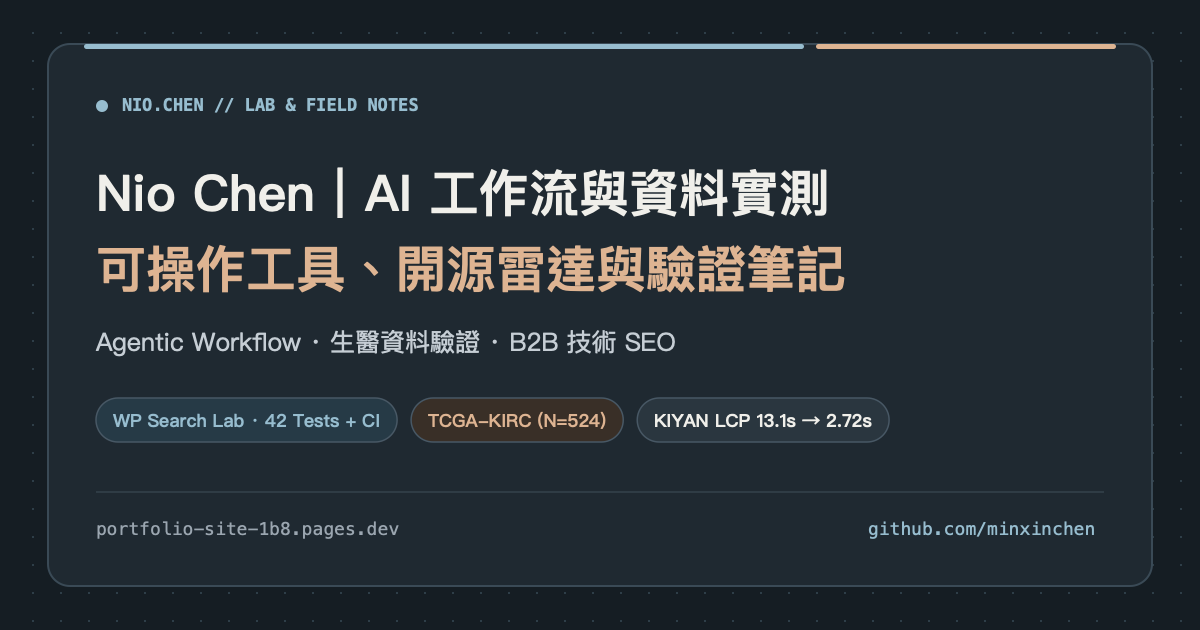
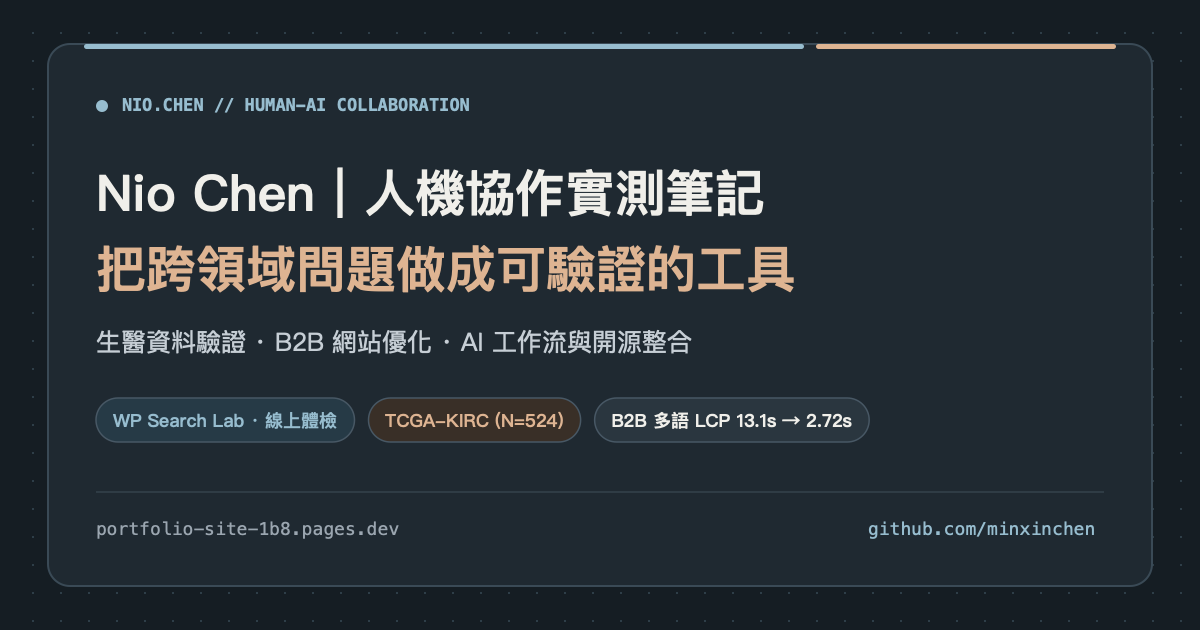
Unify homepage around human-AI collaboration, fix post count, remove repetition and jargon

diff --git a/public/index.html b/public/index.html
@@ -5,15 +5,15 @@
   <meta name="viewport" content="width=device-width,initial-scale=1">
   <meta name="color-scheme" content="light dark">
   <script>try{const s=localStorage.getItem("color-scheme");if(s==="light"||s==="dark")document.querySelector('meta[name="color-scheme"]').content=s;}catch{}</script>
-  <meta name="description" content="Nio Chen｜AI 工作流、生醫資料驗證與 B2B 技術 SEO 的互動工具與實戰筆記。">
-  <title>Nio Chen｜AI 工作流、生醫資料與 SEO 實測筆記</title>
+  <meta name="description" content="Nio Chen｜以人機協作，將生醫資料、B2B 網站優化與 AI 工作流做成可操作的工具與實測筆記。">
+  <title>Nio Chen｜人機協作：可驗證工具與跨領域實測筆記</title>
   <link rel="canonical" href="https://portfolio-site-1b8.pages.dev/">
-  <meta property="og:title" content="Nio Chen｜AI 工作流、生醫資料與 SEO 實測筆記">
-  <meta property="og:description" content="可直接操作的 WP Search Lab、TCGA-KIRC 524 人存活實驗室，以及開源雷達、雙管線 Workflow 與驗證踩坑紀錄。">
+  <meta property="og:title" content="Nio Chen｜人機協作：可驗證工具與跨領域實測筆記">
+  <meta property="og:description" content="人定義問題與邊界、AI 與開源加速實作、真實資料驗證結果：包含 WP Search Lab、TCGA-KIRC 存活實驗室與 7 篇實戰筆記。">
   <meta property="og:type" content="website">
   <meta property="og:url" content="https://portfolio-site-1b8.pages.dev/">
   <meta property="og:image" content="https://portfolio-site-1b8.pages.dev/assets/og-card.png">
-  <script type="application/ld+json">{"@context":"https://schema.org","@type":"Person","name":"Nio Chen","alternateName":"Minxin Chen","url":"https://portfolio-site-1b8.pages.dev/","sameAs":["https://github.com/minxinchen"],"knowsAbout":["Bioinformatics","Biomedical Engineering","B2B SEO","AI Workflow","Data Analysis"]}</script>
+  <script type="application/ld+json">{"@context":"https://schema.org","@type":"Person","name":"Nio Chen","alternateName":"Minxin Chen","url":"https://portfolio-site-1b8.pages.dev/","sameAs":["https://github.com/minxinchen"],"knowsAbout":["Human-AI Collaboration","Bioinformatics","Biomedical Engineering","B2B SEO","Data Analysis"]}</script>
   <link rel="stylesheet" href="assets/style.css">
 </head>
 <body>
@@ -41,9 +41,9 @@
     <section class="hero" id="top">
       <div class="container hero-main">
         <div class="hero-copy">
-          <span class="eyebrow">NIO CHEN · LAB &amp; FIELD NOTES</span>
-          <h1>AI 工作流、生醫資料與 SEO 的<em>可操作工具與實測筆記。</em></h1>
-          <p class="hero-sub">生醫資訊背景，跨足醫材臨床支援、B2B 技術行銷與 Agentic Workflow。這裡集中放我做過的小工具、公開資料驗證與開源實驗紀錄，點進就能操作或檢驗。</p>
+          <span class="eyebrow">NIO CHEN · HUMAN–AI COLLABORATION</span>
+          <h1>以人機協作，把跨領域問題做成<em>可驗證的工具與實測筆記。</em></h1>
+          <p class="hero-sub">我是 Nio（陳明昕），生醫資訊背景，歷經醫材臨床支援與 B2B 技術行銷。無論面對生醫資料、網站效能還是 AI 流程，我都採用同一套人機協作方法：人負責定義真實問題與驗收邊界，搭配開源套件與 AI 加速實作，再用公開資料與測試檢驗結果。</p>
           <div class="hero-actions">
             <a class="round-link" href="tools/wp-search-lab/">開啟 WP Search Lab ↗</a>
             <a class="round-link alt" href="tools/survival-evidence-lab/">TCGA-KIRC 實驗室</a>
@@ -51,31 +51,31 @@
           </div>
           <div class="hero-foot">
             <span class="dash"></span>
-            <span>Agentic Workflow · 生醫資料驗證 · B2B 技術 SEO</span>
+            <span>人機協作實踐 · 生醫資料驗證 · B2B 網站優化 · 工作流設計</span>
           </div>
         </div>
 
-        <aside class="spec-panel" aria-label="精選實績快速入口">
+        <aside class="spec-panel" aria-label="人機協作三步驟分工">
           <div class="spec-bar">
             <span class="spec-dots" aria-hidden="true"><i></i><i></i><i></i></span>
-            <span>featured // live-evidence</span>
+            <span>method // human-ai-workflow</span>
           </div>
           <div class="spec-body">
-            <a class="spec-row" href="tools/wp-search-lab/">
-              <div class="spec-row-head"><span>01 / WP SEARCH LAB</span><span class="tag-earth">42 TESTS + CI ↗</span></div>
-              <strong>免登入 WordPress SEO／AIO 體檢台</strong>
-              <p>單頁與 Sitemap 10 頁抽樣、內鏈建議、Lighthouse API 與跨日驗證。</p>
-            </a>
-            <a class="spec-row" href="tools/survival-evidence-lab/">
-              <div class="spec-row-head"><span>02 / TCGA-KIRC (N=524)</span><span class="tag-earth">PYTHON + R ↗</span></div>
-              <strong>腎細胞癌存活敏感度互動實驗室</strong>
-              <p>拖動年齡切點觀察 P-hacking，對照 CP04 v2 交叉驗證陰性結果。</p>
-            </a>
-            <a class="spec-row" href="projects/kiyan.html">
-              <div class="spec-row-head"><span>03 / B2B MULTILINGUAL</span><span class="tag-earth">LCP 13.1s → 2.72s ↗</span></div>
-              <strong>B2B 工業多語系統效能與 SEO 實測</strong>
-              <p>首屏隔離實測（3.16s → 2.72s）、GSC 未索引分流與免 GA4 歸因。</p>
-            </a>
+            <div class="spec-row">
+              <div class="spec-row-head"><span>01 / HUMAN</span><span class="tag-earth">DEFINE &amp; DECIDE</span></div>
+              <strong>定義現場問題與驗收邊界</strong>
+              <p>從跨領域現場痛點出發，先訂出可量測的成功條件、停止條件與不應跨越的推論界線。</p>
+            </div>
+            <div class="spec-row">
+              <div class="spec-row-head"><span>02 / AI + OPEN SOURCE</span><span class="tag-earth">BUILD FAST</span></div>
+              <strong>開源選型與 AI 協作原型</strong>
+              <p>優先整合成熟開源元件並核對授權，透過 AI 協作快速把想法做成免登入、可直接操作的網頁工具。</p>
+            </div>
+            <div class="spec-row">
+              <div class="spec-row-head"><span>03 / VERIFICATION</span><span class="tag-earth">TEST &amp; AUDIT</span></div>
+              <strong>公開資料實測與自動化檢查</strong>
+              <p>用真實資料、自動化測試與交叉驗證抓出模型誤判，誠實保留陰性結論與能力限制。</p>
+            </div>
           </div>
         </aside>
       </div>
@@ -86,7 +86,7 @@
         <div class="section-head">
           <div>
             <span class="smallcaps">01 / LIVE TOOLS &amp; CASE STUDIES</span>
-            <h2>互動工具與專案紀錄</h2>
+            <h2>人機協作的實際產出：互動工具與案例</h2>
           </div>
           <a class="tiny-link" href="projects/index.html">全部作品與 GitHub 實驗室</a>
         </div>
@@ -94,40 +94,40 @@
         <div class="project-stack">
           <a class="project-card project-featured" href="tools/wp-search-lab/">
             <div class="project-body">
-              <div class="project-meta"><span>LIVE TOOL · WORDPRESS / SEO / AIO</span><span>可直接操作</span></div>
+              <div class="project-meta"><span>LIVE TOOL · 網站搜尋體檢</span><span>可直接操作</span></div>
               <h3>WP Search Lab</h3>
-              <p>單頁與 Sitemap 全站 10 頁抽樣、內外鏈建議、Google Lighthouse 效能與 SEO 分數、跨日自動存檔與前後比對。</p>
-              <div class="project-tags"><span>Sitemap 抽樣</span><span>內鏈建議</span><span>Lighthouse API</span><span>42 項測試＋CI</span></div>
+              <p>給不懂程式的 WordPress 經營者使用的免費體檢台：支援單頁與全站 10 頁抽樣、內鏈建議、Google 速度與 SEO 分數、跨日存檔與前後驗證。</p>
+              <div class="project-tags"><span>全站 10 頁抽樣</span><span>內鏈建議</span><span>速度與 SEO 檢測</span><span>自動化測試＋CI</span></div>
             </div>
             <div class="card-foot"><span>開啟線上工具（免登入）</span><span aria-hidden="true">↗</span></div>
           </a>
 
           <a class="project-card project-featured" href="tools/survival-evidence-lab/">
             <div class="project-body">
-              <div class="project-meta"><span>LIVE TOOL · TCGA-KIRC (N=524)</span><span>可直接操作</span></div>
+              <div class="project-meta"><span>LIVE TOOL · 生醫臨床資料（N=524）</span><span>可直接操作</span></div>
               <h3>TCGA-KIRC 存活敏感度實驗室</h3>
-              <p>以 524 位公開臨床資料呈現年齡切點滑桿、分期／分級 Kaplan–Meier 曲線，以及 CP04 v2 交叉驗證森林圖。</p>
-              <div class="project-tags"><span>切點滑桿</span><span>KM 存活曲線</span><span>Python / R 驗證</span><span>靜態預計算</span></div>
+              <p>以 524 位腎細胞癌公開臨床資料打造的互動實驗台：拖動年齡切點觀察統計假象如何產生，並直接檢視 Python／R 交叉驗證後的陰性結論。</p>
+              <div class="project-tags"><span>切點滑桿</span><span>存活曲線</span><span>Python／R 交叉驗證</span><span>靜態預計算</span></div>
             </div>
             <div class="card-foot"><span>開啟存活敏感度實驗室</span><span aria-hidden="true">↗</span></div>
           </a>
 
           <a class="project-card" href="projects/kiyan.html">
             <div class="project-body">
-              <div class="project-meta"><span>B2B / PERFORMANCE &amp; SEO</span><span>去識別案例</span></div>
-              <h3>B2B 工業多語系統優化</h3>
-              <p>多語系統規格整併、GSC 未索引分流、舊轉址清零與行動版首屏隔離測試（13.10s → 3.16s → 2.72s）。</p>
-              <div class="project-tags"><span>Mobile LCP</span><span>隔離測試</span><span>多語系統 SEO</span></div>
+              <div class="project-meta"><span>CASE STUDY · B2B 多語網站</span><span>去識別案例</span></div>
+              <h3>B2B 工業多語網站優化</h3>
+              <p>整理多語系產品規格、排查未索引頁面與舊轉址，並透過首屏隔離測試將行動版載入時間（LCP）由 13.10 秒降至 2.72 秒。</p>
+              <div class="project-tags"><span>LCP 13.1s → 2.72s</span><span>隔離測試</span><span>多語系網站</span></div>
             </div>
             <div class="card-foot"><span>查看量測紀錄</span><span aria-hidden="true">↗</span></div>
           </a>
 
           <a class="project-card" href="projects/wp-search-lab.html">
             <div class="project-body">
-              <div class="project-meta"><span>ARCHITECTURE / OPEN SOURCE</span><span>設計紀錄</span></div>
-              <h3>WP Search Lab 設計與開源分工</h3>
-              <p>整理 parse5、Readability、robots-parser 整合架構、SSRF／限流邊界，以及實測修掉的 3 類誤判。</p>
-              <div class="project-tags"><span>parse5</span><span>Readability</span><span>回歸快照</span></div>
+              <div class="project-meta"><span>ARCHITECTURE · 人與開源分工</span><span>設計紀錄</span></div>
+              <h3>WP Search Lab 產品設計與分工</h3>
+              <p>說明如何區分個人產品決策、開源解析元件與 AI 協作實作，以及用真實網站測試修掉 3 類常見誤判的過程。</p>
+              <div class="project-tags"><span>開源整合</span><span>安全邊界</span><span>回歸測試</span></div>
             </div>
             <div class="card-foot"><span>閱讀設計與授權分工</span><span aria-hidden="true">↗</span></div>
           </a>
@@ -139,32 +139,32 @@
       <div class="container">
         <div class="section-head">
           <div>
-            <span class="smallcaps">02 / TECHNICAL NOTES</span>
+            <span class="smallcaps">02 / FIELD NOTES</span>
             <h2>近期實戰文章</h2>
           </div>
-          <a class="tiny-link" href="journal/index.html">全部 5 篇文章</a>
+          <a class="tiny-link" href="journal/index.html">全部 7 篇文章</a>
         </div>
 
         <div class="publication">
           <a class="post-card" href="journal/github-radar.html">
-            <span class="smallcaps">開源雷達 · 2026-11</span>
+            <span class="smallcaps">開源觀察 · 2026-11</span>
             <h3>連追六期 GitHub AI 專案後，我怎麼決定「不安裝」</h3>
-            <p>從 Superpowers、pstack 與 Ponytail 拆出三個挑選原則：蒸餾紀律、原型先行、減少不必要工程。</p>
-            <div class="bottom"><span>GitHub 觀察</span><span>閱讀 ↗</span></div>
+            <p>從多個熱門開源專案拆出三個選型原則：把紀律蒸餾成規則、先做原型測邊界、減少不必要的工程負擔。</p>
+            <div class="bottom"><span>開源選型</span><span>閱讀 ↗</span></div>
           </a>
 
           <a class="post-card" href="journal/ai-research-workflow.html">
-            <span class="smallcaps">AI 工作流 · 2026-11</span>
-            <h3>單一 Prompt 排程壞掉之後：我怎麼重構 GitHub 技術雷達管線</h3>
-            <p>收完六期日報後停掉原排程，重畫成查證、評分與 Case Study 階段式管線、3 道 Gate 與檔案結構。</p>
-            <div class="bottom"><span>Workflow Blueprint</span><span>閱讀 ↗</span></div>
+            <span class="smallcaps">工作流設計 · 2026-11</span>
+            <h3>單一 Prompt 排程壞掉之後：我怎麼重構技術雷達管線</h3>
+            <p>收完六期日報後停掉原排程，改拆成查證、評分與案例拆解的階段式管線，補上 3 道品質關卡與純檔案紀錄。</p>
+            <div class="bottom"><span>流程重構</span><span>閱讀 ↗</span></div>
           </a>
 
           <a class="post-card" href="journal/compression-validation.html">
             <span class="smallcaps">驗證實測 · 2026-05</span>
             <h3>n=10 跑出 100% Pass 卻讓我起疑：論文壓縮實驗的四個盲點</h3>
-            <p>10 篇腸腦軸 PMC 論文壓縮實驗拆解：指標飽和、變因混雜、雙盲錨定，以及中文標籤「踩了／沒踩」歧義。</p>
-            <div class="bottom"><span>document-compression-lab</span><span>閱讀 ↗</span></div>
+            <p>10 篇生醫論文壓縮實驗拆解：指標飽和、變因混雜、雙盲評審錨定，以及中文評估標籤「踩了／沒踩」的語意歧義。</p>
+            <div class="bottom"><span>生醫文獻實驗</span><span>閱讀 ↗</span></div>
           </a>
         </div>
       </div>
@@ -175,7 +175,7 @@
         <div class="cta">
           <div>
             <span class="smallcaps">CONTACT</span>
-            <h2>歡迎交流 AI 工作流、資料驗證或合作機會</h2>
+            <h2>歡迎交流人機協作、資料驗證或合作機會</h2>
             <p>可以直接來信，或從 GitHub 查看各實驗室的原始碼與測試紀錄。</p>
           </div>
           <div style="display:flex;gap:10px;flex-wrap:wrap">

diff --git a/public/about.html b/public/about.html
@@ -41,20 +41,20 @@
       <header class="page-hero">
         <span class="smallcaps">ABOUT // NIO CHEN</span>
         <h1>關於 Nio</h1>
-        <p>生醫資訊與醫學工程碩士，歷經研究資料整理、手術導航醫材臨床支援與 B2B 工業技術行銷，現在長期實驗 Agentic Workflow、資料驗證與輕量網頁工具。</p>
+        <p>生醫資訊與醫學工程碩士，歷經研究資料整理、手術導航醫材臨床支援與 B2B 工業技術行銷。目前專注把「人機協作」落地在資料驗證、網站工具與工作流程設計上。</p>
       </header>
 
       <div class="about-content">
         <div class="bio">
-          <h2 style="margin-bottom:14px">我在專案裡的角色</h2>
-          <p>在各個專案裡，我主要負責<strong>問題定義、資料來源查核、開源工具選型與驗收規則設計</strong>；程式碼實作與自動化測試則搭配成熟開源套件與 AI（Claude Code、Codex）協作完成，並以公開資料與回歸測試檢驗結果。</p>
+          <h2 style="margin-bottom:14px">我對人機協作的分工方式</h2>
+          <p>在各個專案裡，我負責<strong>問題定義、資料來源查核、開源工具選型與驗收規則設計</strong>；程式碼實作與自動化測試則搭配成熟開源套件與 AI（Claude Code、Codex）協作完成，並以公開資料與回歸測試檢驗結果。</p>
           <p>這個站用來整理可操作的靜態工具與實驗筆記——用 HTML 呈現表格、流程圖與互動頁面，比純文字更容易直接對照與複盤。</p>
 
-          <h2 style="margin:28px 0 14px">三個長期關注的方向</h2>
+          <h2 style="margin:28px 0 14px">人機協作在三個場景的實踐</h2>
           <ul>
-            <li><strong>Agentic Workflow 與驗證：</strong>怎麼設計可重跑、可消融對照的 AI 流程，以及多代理協作時人機權責的切分點。</li>
+            <li><strong>AI 工作流與驗證：</strong>設計可重跑、可消融對照的流程，釐清多代理協作時人機權責的切分點。</li>
             <li><strong>生醫與研究資料查核：</strong>從資料清洗、切點敏感度到 Python / R 交叉驗證，保留真實統計邊界與陰性結果。</li>
-            <li><strong>B2B 網站與開源整合：</strong>把 SEO、效能隔離測試與技術內容整理成可量測、一般經營者也能操作的工具。</li>
+            <li><strong>B2B 網站與開源整合：</strong>把技術 SEO、效能隔離測試與日常排查整理成一般經營者也能操作的工具。</li>
           </ul>
         </div>
 

diff --git a/public/journal/index.html b/public/journal/index.html
@@ -5,7 +5,7 @@
   <meta name="viewport" content="width=device-width,initial-scale=1">
   <meta name="color-scheme" content="light dark">
   <script>try{const s=localStorage.getItem("color-scheme");if(s==="light"||s==="dark")document.querySelector('meta[name="color-scheme"]').content=s;}catch{}</script>
-  <meta name="description" content="Nio Chen 的技術筆記：開源工具選型、雙管線 Workflow、生醫論文壓縮驗證、多 Agent 協作踩坑與 B2B 效能隔離實測。">
+  <meta name="description" content="Nio Chen 的 7 篇技術實戰筆記：開源工具選型、階段式研究管線、生醫論文壓縮驗證、多 Agent 協作踩坑與 B2B 網站實測。">
   <title>技術文章 · Nio Chen</title>
   <link rel="canonical" href="https://portfolio-site-1b8.pages.dev/journal/">
   <link rel="stylesheet" href="../assets/style.css">
